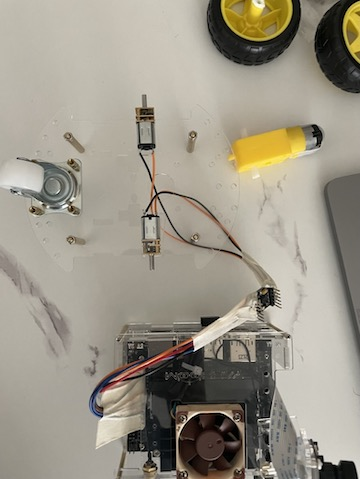
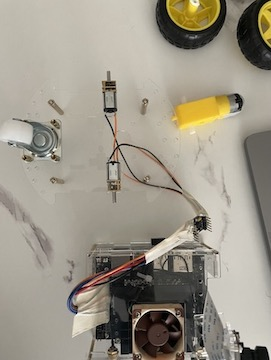
update post

diff --git a/_posts/2023-03-30-elementary-blocks-of-robotics.md b/_posts/2023-03-30-elementary-blocks-of-robotics.md
@@ -3,13 +3,12 @@ layout: post
 title:  "Building Elementary Blocks of Robot Motion; Powered by Jetson Nano "
 author: John
 tags: [Robotics, Programming, Python, Embedded]
-image: assets/images/bot.jpeg
 description: ""
 featured: true
 hidden: true
 ---
 
-Lately, I've been curious if embedded machine learing could simplify life, primarily along the lines of having a robot assistant or improved home automation. This blog post is about getting the basic hardware in shape for working towards that goal.
+Lately, I've been curious if embedded machine learing could simplify daily life, primarily along the lines of having a robot assistant or improved home automation. This blog post is about getting the basic hardware in shape for working towards that goal.
 
 #### Choosing the processor
 
@@ -49,8 +48,14 @@ Now that the chassis has been built, it is time to choose a portable powering de
   <img src="../assets/images/ups.jpg"/>
 </div>
 
+After placing the UPS, the board has been affixed on to the top layer of the chassis.
 
-#### GPIO Controls
+<div align="left">
+  <img src="../assets/images/bot.jpeg"/>
+</div>
+
+
+#### Driving the motors using GPIO Controls
 
 
 ```html
